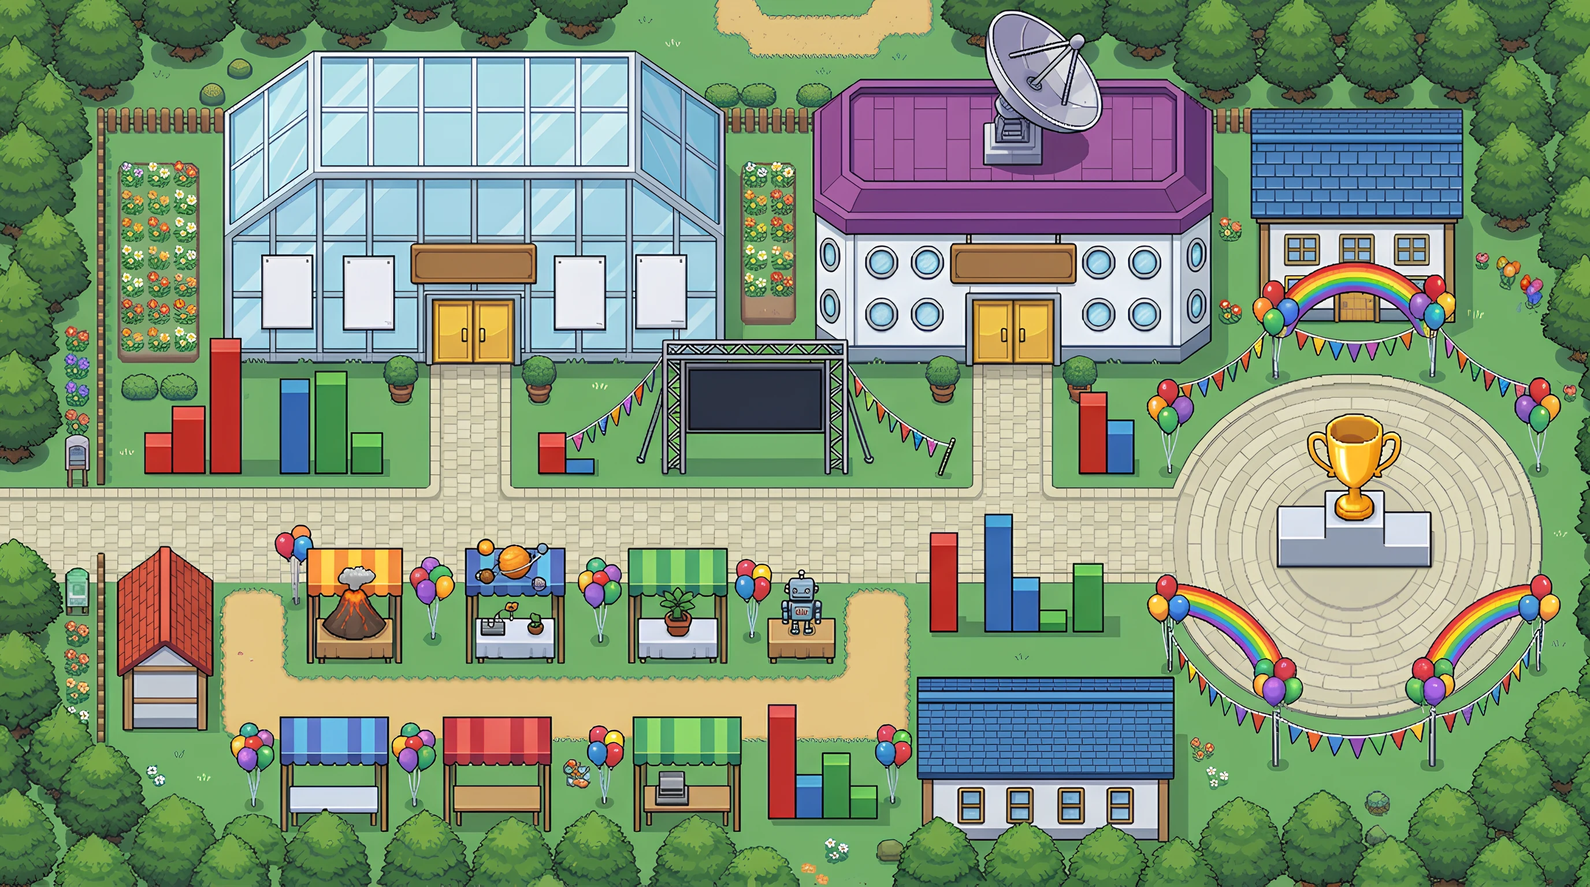
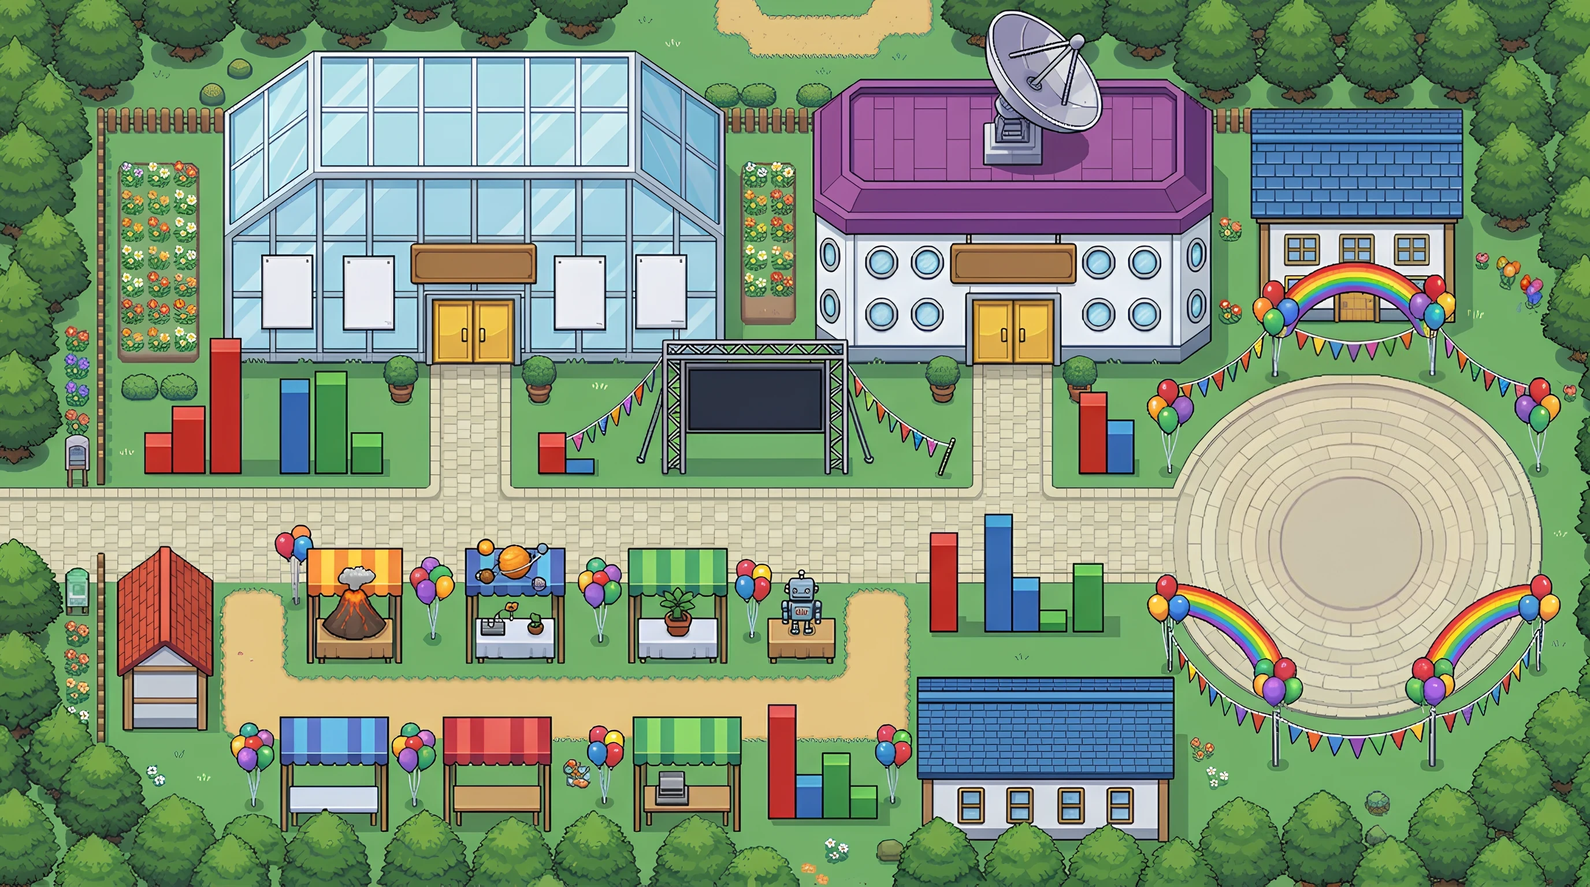
feat(jogo): Torre dos Campeões com a porta de pedra na praça do mapa 13 (sempre visível, abre com as 26 insígnias), aviso "X/26" trancada, a cena da porta abrindo uma vez e a porta animada ao entrar (PROMPT-267)

Changed region(s): [[0.7812, 0.375, 0.9375, 0.6562], [0.7812, 0.4062, 0.8125, 0.4688]]

diff --git a/js/jogo-revisao.js b/js/jogo-revisao.js
@@ -289,6 +289,7 @@ function comemorarPetNaCena() {
 
 // Festa em tela cheia: confete, o pet comemorando grande e o personagem
 function mostrarFestaMestre(tipo) {
+  if (tipo === 'porta') { mostrarPortaTorre(); return; }   // 🏆 PROMPT-267 (a fila da festa também leva a cena da porta)
   const el = $('festa-mestre');
   const lenda = tipo === 'lenda';
   $('fm-tit').textContent = lenda ? '🌟 Você conquistou TODAS as insígnias douradas!' : '🏆 Você conquistou TODAS as insígnias!';
@@ -347,6 +348,7 @@ function tocarTrofeu() {
 }
 function verMeuTrofeu() {
   fecharFestaMestre();
+  if (portaTorrePendente()) { mostrarPortaTorre(verMeuTrofeu); return; }   // 🏆 PROMPT-267: a porta da torre abre antes (uma vez)
   const mostra = () => {
     const t = D.geral.trofeu, sc = $('geral-scroll'), palco = $('geral-palco');
     if (t) {
@@ -551,6 +553,7 @@ async function carregarEstado() {
     estado.programe = v.programe && typeof v.programe === 'object' ? { ...v.programe, fases: { ...(v.programe.fases || {}) } } : { fases: {} };   // PROMPT-50
     estado.mestre = v.mestre?.data ? { data: v.mestre.data } : null;   // Mestre da Revisão: as 26 insígnias (PROMPT-57)
     estado.lenda = v.lenda?.data ? { data: v.lenda.data } : null;      // Lenda da Revisão: as 26 douradas
+    estado.torreAbertaVista = !!v.torre_aberta_vista;   // 🏆 PROMPT-267: a cena da porta da torre abrindo já foi vista
     estado.letraGrande = !!v.preferencias?.letra_grande;   // Aa Letra grande (PROMPT-49), salva por aluno
     aplicarLetra();
     estado.missoes = v.missoes_dia && typeof v.missoes_dia === 'object' ? v.missoes_dia : null;
@@ -952,7 +955,7 @@ export async function iniciarJogo(sess) {
     batalhar: (id) => iniciarBatalha(id), pg: () => pg, meuPet: () => (abrirMeuPet(), mp), mp: () => mp, carinho: () => carinhoPet(),
     truque: (id) => fazerTruque(id), comer: (id) => darComida(id),
     tamanho: (f) => ({ alt: +altPet(f).toFixed(2), dist: +distPet(f).toFixed(2), rel: +relDuelo(f).toFixed(3) }),   // 🐘 PROMPT-213: conferir a tabela
-    torre: (a) => abrirTorre(a), bau: (a) => abrirBau(a), premiosTorre: () => abrirPremiosTorre(), quadroTorre: () => abrirQuadroTorre(), torreTrein: (i) => abrirPerguntaTorre(i), casinha: () => abrirCasinha(), temas: () => abrirTemasCasa(),
+    torre: (a) => abrirTorre(a), portaTorre: () => mostrarPortaTorre(null, { gravarVista: false }), entrarTorre: () => entrarNaTorre(), bau: (a) => abrirBau(a), premiosTorre: () => abrirPremiosTorre(), quadroTorre: () => abrirQuadroTorre(), torreTrein: (i) => abrirPerguntaTorre(i), casinha: () => abrirCasinha(), temas: () => abrirTemasCasa(),
     aula: (chave, i = 0) => { abrirAula(chave, 'menu'); irPaginaAula(i); }, aulaPags: (chave) => aulaDe(chave)?.paginas?.length || 0,
     perguntaPet: (enun, opcoes) => desenharPerguntaPet(enun, opcoes), falaPet: (txt) => mostrarFalaPet([{ texto: txt, espera: 0, fixo: 8000 }]), irPara: (x, y) => posicionarJogador(x, y, 'frente'), loja: (aba) => abrirLoja(aba), saguao: () => abrirSaguao(), salaExpo: (n) => abrirSalaExpo(n), porta: (k) => entrarSalaExpo(cena.expoPortas[k - 1].n), portasExpo: () => cena?.expoPortas?.map(p => [p.k, p.n]), cena: () => cena, jog: () => jog, joy: () => joy, expo: () => EXPO, temasExpo: () => abrirTemasExpo(), decorar: () => entrarEdicaoExpo(), conteudoExpo: (id) => abrirConteudoExpo(id), grio: () => grio };   // 💬 PROMPT-232   // 🔠 PROMPT-231: conferir as letras   // 🏆 PROMPT-230
 
@@ -1080,7 +1083,7 @@ export async function iniciarJogo(sess) {
   if (comecaNaSala) abrirSalaExpo(salaDireto).catch(() => abrirMapaGeral()).finally(() => { $('jr-carregando').hidden = true; });
   else if (comecaNoSaguao) abrirSaguao().catch(() => abrirMapaGeral()).finally(() => { $('jr-carregando').hidden = true; });
   else if (!comecaNaPraca) { abrirMapaGeral(); $('jr-carregando').hidden = true; }
-  { const f = verificarMestre(); if (f) setTimeout(() => mostrarFestaMestre(f), 1500); }
+  { const f = verificarMestre(); if (f) setTimeout(() => mostrarFestaMestre(f), 1500); else verificarPortaTorre(2200); }   // 🏆 PROMPT-267: quem já tem as 26 vê a porta abrindo (uma vez)
   carregarTitulos();
   iniciarAlbum();
   iniciarPet();
@@ -6424,7 +6427,7 @@ function soltarJoystick() {
 
 // Pergunta, estojo, cartão ou insígnia por cima do jogo
 const sobreposicaoAberta = () =>
-  perguntaAberta || !!torreModal || !$('estojo').hidden || !$('cartao').hidden || !$('insignia-ganha').hidden || !$('pet-escolha').hidden || !$('pet-colecao').hidden || !$('pet-levar').hidden || !$('meu-pet').hidden || !$('reacoes').hidden || !$('online-lista').hidden || !$('pers-escolha').hidden || !$('gin-fechado').hidden || !$('pet-silhueta').hidden || !$('bt-lista').hidden || !$('batalha').hidden || !$('pedido').hidden || !$('loja').hidden || !$('pesca-aviso').hidden || !$('pesca-tutorial').hidden || !$('pesca-ranking').hidden || !$('mural').hidden || !$('convite').hidden || !$('duelo').hidden || !$('maquina').hidden || !$('jogo-embed').hidden || !$('aovivo').hidden || !$('pet-evolucao').hidden || !$('relembre').hidden || !$('missoes').hidden || !$('moedas-hoje').hidden || !$('programe').hidden || !$('pg-mapa').hidden || !$('damas').hidden || !$('estudos').hidden || !$('relampago').hidden || !$('album').hidden || !$('fig-nova').hidden || !$('al-cartao').hidden || !$('aniv').hidden || !$('pres-card').hidden || !!cs?.arrumando || !$('cs-colecao').hidden || !$('cs-aquario').hidden || !$('cs-comida').hidden || !$('cs-temas').hidden || !$('venc').hidden || !$('cs-menu').hidden || !$('vila-convite').hidden || !$('vila-busca').hidden || !!ex?.editando || !$('ex-cont').hidden || !$('ex-temas').hidden || !$('ex-ver').hidden || !$('tutorial').hidden || !$('config').hidden || !$('visita-pedido').hidden || !$('perfil-colega').hidden || !$('amizade-pedido').hidden || !$('equipe').hidden || !$('equipe-convite').hidden || !$('favores').hidden || !$('fv-conta').hidden || !$('amigo-presente').hidden || !$('cs-visitas-escolha').hidden || !!deq || ($('deq-convite') && !$('deq-convite').hidden) || !!document.querySelector('.expo-modal:not([hidden])');   // 🤝 PROMPT-236   // 🚪 PROMPT-246
+  perguntaAberta || !!torreModal || !$('estojo').hidden || !$('cartao').hidden || !$('insignia-ganha').hidden || !$('pet-escolha').hidden || !$('pet-colecao').hidden || !$('pet-levar').hidden || !$('meu-pet').hidden || !$('reacoes').hidden || !$('online-lista').hidden || !$('pers-escolha').hidden || !$('gin-fechado').hidden || !$('pet-silhueta').hidden || !$('bt-lista').hidden || !$('batalha').hidden || !$('pedido').hidden || !$('loja').hidden || !$('pesca-aviso').hidden || !$('pesca-tutorial').hidden || !$('pesca-ranking').hidden || !$('mural').hidden || !$('convite').hidden || !$('duelo').hidden || !$('maquina').hidden || !$('jogo-embed').hidden || !$('aovivo').hidden || !$('pet-evolucao').hidden || !$('relembre').hidden || !$('missoes').hidden || !$('moedas-hoje').hidden || !$('programe').hidden || !$('pg-mapa').hidden || !$('damas').hidden || !$('estudos').hidden || !$('relampago').hidden || !$('album').hidden || !$('fig-nova').hidden || !$('torre-aberta').hidden || !$('al-cartao').hidden || !$('aniv').hidden || !$('pres-card').hidden || !!cs?.arrumando || !$('cs-colecao').hidden || !$('cs-aquario').hidden || !$('cs-comida').hidden || !$('cs-temas').hidden || !$('venc').hidden || !$('cs-menu').hidden || !$('vila-convite').hidden || !$('vila-busca').hidden || !!ex?.editando || !$('ex-cont').hidden || !$('ex-temas').hidden || !$('ex-ver').hidden || !$('tutorial').hidden || !$('config').hidden || !$('visita-pedido').hidden || !$('perfil-colega').hidden || !$('amizade-pedido').hidden || !$('equipe').hidden || !$('equipe-convite').hidden || !$('favores').hidden || !$('fv-conta').hidden || !$('amigo-presente').hidden || !$('cs-visitas-escolha').hidden || !!deq || ($('deq-convite') && !$('deq-convite').hidden) || !!document.querySelector('.expo-modal:not([hidden])');   // 🤝 PROMPT-236   // 🚪 PROMPT-246
 
 function vetorEntrada() {
   if (sobreposicaoAberta()) return [0, 0];
@@ -6862,7 +6865,7 @@ async function abrirMapa(n, onde) {
   mostrarTela('tela-cena');
   $('cena-palco').style.visibility = 'hidden';
 
-  const [grade] = await Promise.all([carregarGrade(cfg.trilha), trocarFundo(`${IMG}/mapas/mapa${n}.webp`)]);
+  const [grade] = await Promise.all([carregarGrade(cfg.trilha), trocarFundo(`${IMG}/mapas/mapa${n}.webp${cfg.v ? `?v=${cfg.v}` : ''}`)]);   // mapas.json → v: a imagem nova sem cache velho (PROMPT-267: mapa 13 sem o troféu)
   bloquearQuadroEstudos(grade, n);   // o personagem não atravessa a base do quadro de estudos
 
   // pontos da trilha mais próximos das portas e saídas
@@ -6897,6 +6900,7 @@ async function abrirMapa(n, onde) {
   fecharBalaoPorta();
 
   if (onde === 'loja' && cena.portaLoja) posicionarJogador(cena.portaLoja.trilha[0], cena.portaLoja.trilha[1], 'frente');   // saiu da loja
+  else if (onde === 'torre' && cena.torrePorta) posicionarJogador(cena.torrePorta.trilha[0], cena.torrePorta.trilha[1], 'frente');   // 🏆 saiu da torre: na frente da porta (PROMPT-267)
   else if (onde === 'A' || onde === 'B') {
     const [x, y] = pontoAntesDaPorta(n, onde);
     posicionarJogador(x, y, 'frente');
@@ -7055,6 +7059,7 @@ function destinoPertoDoToque(p) {
   let perto = null, melhor = DIST_TOQUE;
   for (const d of destinosDoMapa()) {
     if (d.faixa && dentroDe(zonaSaida(d), p.x, p.y)) return d;   // 🖼 a faixa da saída embaixo (saguão e salas da Exposição)
+    if (d.alvo === 'torre' && dentroDe(cena.torrePorta?.caixa, p.x, p.y)) return d;   // 🏆 tocar no desenho da porta (PROMPT-267)
     const dd = Math.min(dist(p.x, p.y, d.x, d.y), dist(p.x, p.y, d.trilha[0], d.trilha[1]));
     if (dd < melhor) { melhor = dd; perto = d; }
   }
@@ -9886,12 +9891,13 @@ function pintarPodioExpo(entrando = false) {
   const k = `expo_confete_${noExpo('x')}_${el.dataset.chave}`;
   if (!lerLocal(k, false)) { gravarLocal(k, true); confeteExpo(); }
 }
-function confeteExpo() {
+function confeteExpo(pai = document.body) {   // pai: outra tela por cima (🏆 a porta da torre, PROMPT-267)
   const box = document.createElement('div');
   box.className = 'expo-confete';
+  if (pai !== document.body) box.style.position = 'absolute';
   const cores = ['#ffd700', '#7c5cfc', '#00d4ff', '#ff7b2e', '#00e676', '#ff4d8d'];
   box.innerHTML = Array.from({ length: 80 }, (_, i) => `<i style="left:${Math.random() * 100}%;background:${cores[i % cores.length]};animation-delay:${(Math.random() * 1.2).toFixed(2)}s;animation-duration:${(2.2 + Math.random() * 1.6).toFixed(2)}s;transform:rotate(${Math.floor(Math.random() * 360)}deg)"></i>`).join('');
-  document.body.append(box);
+  pai.append(box);
   setTimeout(() => box.remove(), 5000);
 }
 function ligarEventosPublicoExpo() {
@@ -15021,8 +15027,10 @@ function lerTorre(t) {
 }
 const torreEst = () => (estado.torre ||= lerTorre(null));
 const venceuLider = (chave) => !!estado?.ginasios?.[chave]?.lider?.vencido;
-const torreLiberada = () => ehProfessora() || (venceuLider('mapa13-A') && venceuLider('mapa13-B'));
-const torreVisivel = () => ehProfessora() || venceuLider('mapa13-A') || venceuLider('mapa13-B');
+// 🏆 PROMPT-267: a porta fica sempre no mapa 13 e só abre com TODAS as insígnias (o total vem dos dados: os líderes, 2 por mapa = 26)
+const totalInsignias = () => Array.from({ length: NUM_MAPAS }, (_, i) => ['A', 'B'].filter(G => D.questoes[i + 1]?.ginasios?.[G]?.personagens?.lider)).flat().length || NUM_MAPAS * 2;
+const torreLiberada = () => ehProfessora() || insigniasGanhas().length >= totalInsignias();
+const torreVisivel = () => true;
 const andarCfg = (a) => TORRE?.andares?.[a - 1] || null;
 const salaoDe = (a) => TORRE?.saloes?.[String(andarCfg(a)?.salao || 1)] || null;
 const cfgPremios = () => TORRE?.premios || {};
@@ -15082,26 +15090,92 @@ function treinadoresDoAndar(a) {
   });
 }
 
-// ── 🏰 a torre num mapa (torre.json → local): visível depois da 1ª vitória no mapa 13; trancada até vencer os 2 ──
+// ── 🏰 a torre num mapa (torre.json → local). PROMPT-267: imagem "porta" = a porta de pedra (porta_1…4), sempre visível;
+//    trancada (🔒) até as 26 insígnias. Sem imagem: o prédio torre.webp, como antes ──
+const PORTA_W = 273 / 400;   // proporção de porta_1…4 (273 × 400, alinhadas pela base)
+const urlPortaTorre = (k) => `${IMG}/torre/porta_${k}.webp`;
 function montarTorreNoMapa(n) {
   cena.torrePorta = null;
   const L = TORRE?.local;
   if (!L || L.mapa !== n || !torreVisivel()) return;
-  const alt = Number(L.altura) || 330;
-  cena.torrePorta = { x: L.x, y: L.y, trilha: centroCelula(celulaMaisProxima(cena.grade, L.x, L.y + 12)) };
-  $('cena-atores').insertAdjacentHTML('beforeend', `<img class="jr-ator jr-torre-predio" src="${IMG}/torre/torre.webp" style="left:${L.x}px;top:${L.y + alt * 0.04}px;height:${alt}px;z-index:${Math.round(L.y)}" alt="" draggable="false"/>` +
-    `<div class="jr-rotulo-porta jr-rotulo-praca" style="left:${L.x}px;top:${L.y - alt * 0.32}px"><span>🏆 Torre dos Campeões${torreLiberada() ? '' : ' 🔒'}</span></div>`);
+  const porta = L.imagem === 'porta', alt = Number(L.altura) || (porta ? 150 : 330), larg = alt * PORTA_W;
+  cena.torrePorta = { x: L.x, y: L.y, porta, trilha: centroCelula(celulaMaisProxima(cena.grade, L.x, L.y + 12)),
+    caixa: porta ? { x0: L.x - larg / 2, x1: L.x + larg / 2, y0: L.y - alt, y1: L.y + 8 } : null };   // tocar no desenho da porta também vale
+  if (porta) {   // ninguém atravessa a porta: ~110 × 60 px em volta da base ficam fora da trilha (a frente da escada continua andável)
+    const g = cena.grade, x0 = Math.floor((L.x - 55) / CEL), x1 = Math.floor((L.x + 55) / CEL), y0 = Math.floor((L.y - 60) / CEL), y1 = Math.floor((L.y - 2) / CEL);
+    for (let cy = Math.max(0, y0); cy <= Math.min(GH - 1, y1); cy++) for (let cx = Math.max(0, x0); cx <= Math.min(GW - 1, x1); cx++) g[cy * GW + cx] = 0;
+    for (let k = 2; k <= 4; k++) new Image().src = urlPortaTorre(k);   // a animação de abrir já fica no cache
+  }
+  const src = porta ? urlPortaTorre(1) : `${IMG}/torre/torre.webp`;
+  $('cena-atores').insertAdjacentHTML('beforeend', `<img class="jr-ator jr-torre-predio${porta ? ' jr-torre-porta' : ''}" id="torre-porta-img" src="${src}" style="left:${L.x}px;top:${porta ? L.y : L.y + alt * 0.04}px;height:${alt}px;z-index:${Math.round(L.y)}" alt="" draggable="false"/>` +
+    `<div class="jr-rotulo-porta jr-rotulo-praca" style="left:${L.x}px;top:${porta ? L.y - alt - 4 : L.y - alt * 0.32}px"><span>🏆 Torre dos Campeões${torreLiberada() ? '' : ' 🔒'}</span></div>`);
 }
+// 🔒 sem as 26: o aviso com o "X/26" e a barrinha
+function avisarTorreTrancada() {
+  const tem = insigniasGanhas().length, total = totalInsignias(), pct = Math.round(100 * Math.min(tem, total) / total);
+  const m = modalTorre('torre-trancada', '🔒 Torre dos Campeões',
+    `<p class="jr-torre-trancada-txt">Só abre para quem conquistar <b>todas as insígnias</b>.</p>
+     <p class="jr-torre-trancada-txt">Você tem <b>${tem}/${total}</b>.</p>
+     <div class="jr-torre-barra" role="progressbar" aria-valuemin="0" aria-valuemax="${total}" aria-valuenow="${tem}"><i style="width:${pct}%"></i></div>
+     <button class="jr-btn" data-torre="entendi">Entendi</button>`, { classe: 'jr-torre-trancada' });
+  m.querySelector('[data-torre="entendi"]').addEventListener('click', () => { tocar('clique'); fecharModalTorre(); });
+  tocar('erro');
+}
+// troca porta_1 → 2 → 3 → 4 num <img> (ms = o tempo de cada quadro)
+function abrirPortaAnim(img, ms, fim) {
+  if (!img || semMovimento()) { if (img) img.src = urlPortaTorre(4); setTimeout(() => fim?.(), semMovimento() ? 150 : 0); return; }
+  let k = 1;
+  const t = setInterval(() => { k++; img.src = urlPortaTorre(k); if (k >= 4) { clearInterval(t); setTimeout(() => fim?.(), ms); } }, ms);
+}
+let entrandoTorre = false;
 function entrarNaTorre() {
-  if (!TORRE) return;
-  if (!torreLiberada()) { avisarEm('Vença todos os ginásios para entrar 🔒', jog.x, jog.y - altJogCena() - 10); tocar('erro'); return; }
+  if (!TORRE || entrandoTorre) return;
+  if (!torreLiberada()) { avisarTorreTrancada(); return; }
   torreOrigem = cena?.tipo === 'mapa' && typeof cena.n === 'number' ? { tipo: 'mapa', n: cena.n } : null;
-  transicao(() => abrirTorre());
+  const img = cena?.torrePorta?.porta ? $('torre-porta-img') : null;
+  if (!img) { transicao(() => abrirTorre()); return; }
+  entrandoTorre = true;   // a porta abre no mapa (~0,5 s) e depois entra
+  jog.dir = 'costas'; desenharJogador();
+  tocar('porta');
+  abrirPortaAnim(img, 130, () => { entrandoTorre = false; transicao(() => abrirTorre()); });
+}
+// ── 🏆 PROMPT-267: a cena da porta abrindo, uma vez (torre_aberta_vista), ao completar as 26 insígnias ──
+// Depois da 26ª: vem depois da festa do Mestre (no "Ver meu troféu"). Quem já tinha as 26: na próxima entrada no jogo.
+const portaTorrePendente = () => !!TORRE?.local && carregouProgresso && !ehProfessora() && !sessao?.visitante && !estado?.torreAbertaVista
+  && insigniasGanhas().length >= totalInsignias();
+function verificarPortaTorre(atraso = 0) {
+  if (!portaTorrePendente()) return false;
+  setTimeout(() => { if (portaTorrePendente() && $('festa-mestre').hidden) mostrarPortaTorre(); }, atraso);
+  return true;
+}
+// professora: jogoRevisaoDev.portaTorre() mostra a cena sem gravar nada
+function mostrarPortaTorre(aoFechar, { gravarVista = true } = {}) {
+  const el = $('torre-aberta'), img = $('ta-porta');
+  if (gravarVista && !ehProfessora()) { estado.torreAbertaVista = true; gravar({ torre_aberta_vista: true }); }
+  clearTimeout(mostrarPortaTorre.t); clearTimeout(mostrarPortaTorre.t2);
+  el.classList.remove('aberta');
+  img.src = urlPortaTorre(1);
+  el._aoFechar = aoFechar || null;
+  el.hidden = false;
+  $('ta-vamos').focus({ preventScroll: true });
+  const fim = () => { if (el.hidden) return; el.classList.add('aberta'); confeteExpo(el); tocar('insignia'); };
+  if (semMovimento()) { img.src = urlPortaTorre(4); fim(); return; }
+  mostrarPortaTorre.t = setTimeout(() => abrirPortaAnim(img, 150, null), 1000);   // ~1 s fechada, depois 150 ms por quadro
+  mostrarPortaTorre.t2 = setTimeout(fim, 1000 + 150 * 3);
+}
+function fecharPortaTorre() {
+  const el = $('torre-aberta');
+  if (el.hidden) return;
+  tocar('clique');
+  el.hidden = true;
+  el.classList.remove('aberta');
+  const f = el._aoFechar; el._aoFechar = null;
+  f?.();
 }
 function sairDaTorre() {
   const o = torreOrigem;
   $('torre-faixa')?.remove();
-  transicao(() => (o?.tipo === 'mapa' ? abrirMapa(o.n) : abrirMapaGeral()));
+  transicao(() => (o?.tipo === 'mapa' ? abrirMapa(o.n, o.n === TORRE?.local?.mapa ? 'torre' : undefined) : abrirMapaGeral()));   // volta para a frente da porta (fechada)
 }
 
 // ── o salão do andar ──
@@ -18320,7 +18394,7 @@ function meusDadosDeq(tipo, alvoId) {
 // por que não dá para entrar (null: pode)
 function motivoSemDueloEquipe(tipo) {
   if (!podeDuelarEquipe()) return 'Você precisa de uma equipe com 2 ou 3 alunos.';
-  if (tipo === 'torre' && !torreLiberada()) return 'Vença todos os ginásios para entrar na Torre 🔒';
+  if (tipo === 'torre' && !torreLiberada()) return `Conquiste todas as insígnias (${insigniasGanhas().length}/${totalInsignias()}) para entrar na Torre 🔒`;   // 🏆 PROMPT-267
   if (tipo === 'mapa' && !ehProfessora() && barrigaDe(estado.pets.ativo) < (cfgBatalha().barriga_minima ?? 25)) return `${nomePet(estado.pets.ativo)} está com fome. Dê comida antes de batalhar.`;
   return null;
 }
@@ -20535,7 +20609,7 @@ function vencer() {
     else darXP(XP_TREINADOR);
     ganharXPJogo(p === 'lider' ? XP_JOGO.lider : p === 'revanche' ? XP_JOGO.revanche : XP_JOGO.treinador, p);   // ⭐ (PROMPT-156)
   }
-  if (ganhou) { const f = verificarMestre(); if (f) festaPendente = f; }   // a 26ª insígnia (ou a 26ª dourada): festa depois da insígnia voar
+  if (ganhou) { const f = verificarMestre(); if (f) festaPendente = f; else if (portaTorrePendente()) festaPendente = 'porta'; }   // 🏆 PROMPT-267: sem festa nova, a porta da torre vem no lugar dela   // a 26ª insígnia (ou a 26ª dourada): festa depois da insígnia voar
   if (ganhou) publicarResumoInsignias();
   if (ganhou === 'normal') publicarNoFeed('insignia', chave);
   if (ganhou === 'dourada') publicarNoFeed('insignia_dourada', chave);
@@ -22609,6 +22683,7 @@ function ligarEventos() {
   $('av-convite-nao').addEventListener('click', (e) => { e.stopPropagation(); responderConviteAV(false); });
   $('btn-pesca-ranking').addEventListener('click', (e) => { e.stopPropagation(); abrirRankingPesca(); });
   $('fm-trofeu').addEventListener('click', verMeuTrofeu);
+  $('ta-vamos').addEventListener('click', fecharPortaTorre);   // 🏆 PROMPT-267
   $('hm-fechar').addEventListener('click', () => { $('hall-mestres').hidden = true; });
   $('hall-mestres').addEventListener('click', (e) => { e.stopPropagation(); if (e.target === $('hall-mestres')) $('hall-mestres').hidden = true; });
   // 🧮 calculadora: abre/fecha no botão; fecha tocando fora ou no ✕

diff --git a/css/jogo-revisao.css b/css/jogo-revisao.css
@@ -6866,3 +6866,28 @@ html.jr-girado .expo-bv-caixa { width: min(800px, calc(100dvh - 24px)); max-heig
   html:not(.jr-girado) .expo-bv-c { flex-direction: column; align-items: flex-start; }
   html:not(.jr-girado) .expo-bv-rod { flex-direction: column-reverse; align-items: stretch; text-align: center; }
 }
+
+/* 🏆 PROMPT-267: a porta da torre no mapa 13, o aviso do cadeado e a cena da porta abrindo */
+.jr-torre-porta { filter: drop-shadow(0 4px 4px rgba(0,0,0,.4)); }
+.jr-torre-trancada .jr-torre-caixa { width: min(380px, 100%); text-align: center; }
+.jr-torre-trancada-txt { margin: 0 0 8px; font-size: calc(16px * var(--letra, 1)); color: #e3e5f0; }
+.jr-torre-trancada-txt b { color: #ffd700; }
+.jr-torre-barra { height: 12px; margin: 4px 0 16px; border-radius: 999px; background: rgba(255,255,255,.1); overflow: hidden; border: 1px solid rgba(255,215,0,.35); }
+.jr-torre-barra i { display: block; height: 100%; border-radius: inherit; background: linear-gradient(90deg, #ff7b2e, #ffd700); }
+.jr-torre-trancada .jr-btn { min-height: 48px; padding: 6px 30px; font-size: 18px; }
+.jr-torre-aberta { position: absolute; inset: 0; z-index: 450; display: flex; flex-direction: column; align-items: center; justify-content: center; gap: 10px; padding: 14px;
+  box-sizing: border-box; overflow: hidden; text-align: center; background: radial-gradient(ellipse at 50% 45%, #1d1838 0%, #0d0f1a 70%); }
+.jr-torre-aberta[hidden] { display: none; }
+.ta-tit { position: relative; z-index: 2; font: 700 clamp(20px, 3.4vw, 28px) 'Rajdhani', sans-serif; color: #ffd700; line-height: 1.1; }
+.ta-palco { position: relative; height: min(50%, 320px); min-height: 140px; aspect-ratio: 273 / 400; }
+#jr-app .ta-porta { position: relative; z-index: 1; height: 100%; width: auto; image-rendering: auto; filter: drop-shadow(0 8px 12px rgba(0,0,0,.6)); }
+.ta-brilho { position: absolute; z-index: 2; left: 50%; top: 42%; width: 70%; aspect-ratio: 1; border-radius: 50%; pointer-events: none; opacity: 0; transform: translate(-50%, -50%) scale(.3);
+  background: radial-gradient(circle, rgba(255,245,190,.95), rgba(255,200,60,.5) 40%, transparent 70%); mix-blend-mode: screen; transition: opacity .6s ease-out, transform .8s ease-out; }
+.jr-torre-aberta.aberta .ta-brilho { opacity: 1; transform: translate(-50%, -50%) scale(1.5); animation: jrTaBrilho 1.6s ease-in-out .8s infinite alternate; }
+@keyframes jrTaBrilho { from { opacity: 1; } to { opacity: .65; } }
+.ta-txt { position: relative; z-index: 2; margin: 0; max-width: 520px; font: 600 calc(16px * var(--letra, 1)) 'Inter', sans-serif; color: #e3e5f0; opacity: 0; transition: opacity .5s; }
+.jr-torre-aberta.aberta .ta-txt { opacity: 1; }
+.jr-torre-aberta .jr-btn { position: relative; z-index: 2; min-height: 52px; padding: 6px 34px; font-size: 18px; }
+.jr-torre-aberta .expo-confete { z-index: 3; }
+@media (max-height: 430px) { .ta-palco { height: 46%; min-height: 110px; } .jr-torre-aberta { gap: 6px; } .jr-torre-aberta .jr-btn { min-height: 46px; } }
+@media (prefers-reduced-motion: reduce) { .jr-torre-aberta.aberta .ta-brilho { animation: none; } }

diff --git a/aluno/jogo-revisao.html b/aluno/jogo-revisao.html
@@ -201,6 +201,13 @@
     </div>
   </div>
 
+  <!-- 🏆 Torre dos Campeões: a porta abrindo ao completar as 26 insígnias (PROMPT-267) -->
+  <div id="torre-aberta" class="jr-torre-aberta" hidden role="dialog" aria-label="A Torre dos Campeões está aberta">
+    <b class="ta-tit">🏆 Você conquistou todas as insígnias!</b>
+    <div class="ta-palco"><i class="ta-brilho" aria-hidden="true"></i><img class="ta-porta" id="ta-porta" alt="A porta da Torre dos Campeões" draggable="false"/></div>
+    <p class="ta-txt">A Torre dos Campeões está aberta! Vá até a praça do mapa 13.</p>
+    <button class="jr-btn jr-btn-ouro" id="ta-vamos">Vamos!</button>
+  </div>
   <!-- Mestre da Revisão: festa das 26 insígnias e Hall dos Mestres (PROMPT-57) -->
   <div id="festa-mestre" class="jr-festa-mestre" hidden role="dialog" aria-label="Mestre da Revisão">
     <div class="fm-confete" id="fm-confete" aria-hidden="true"></div>
